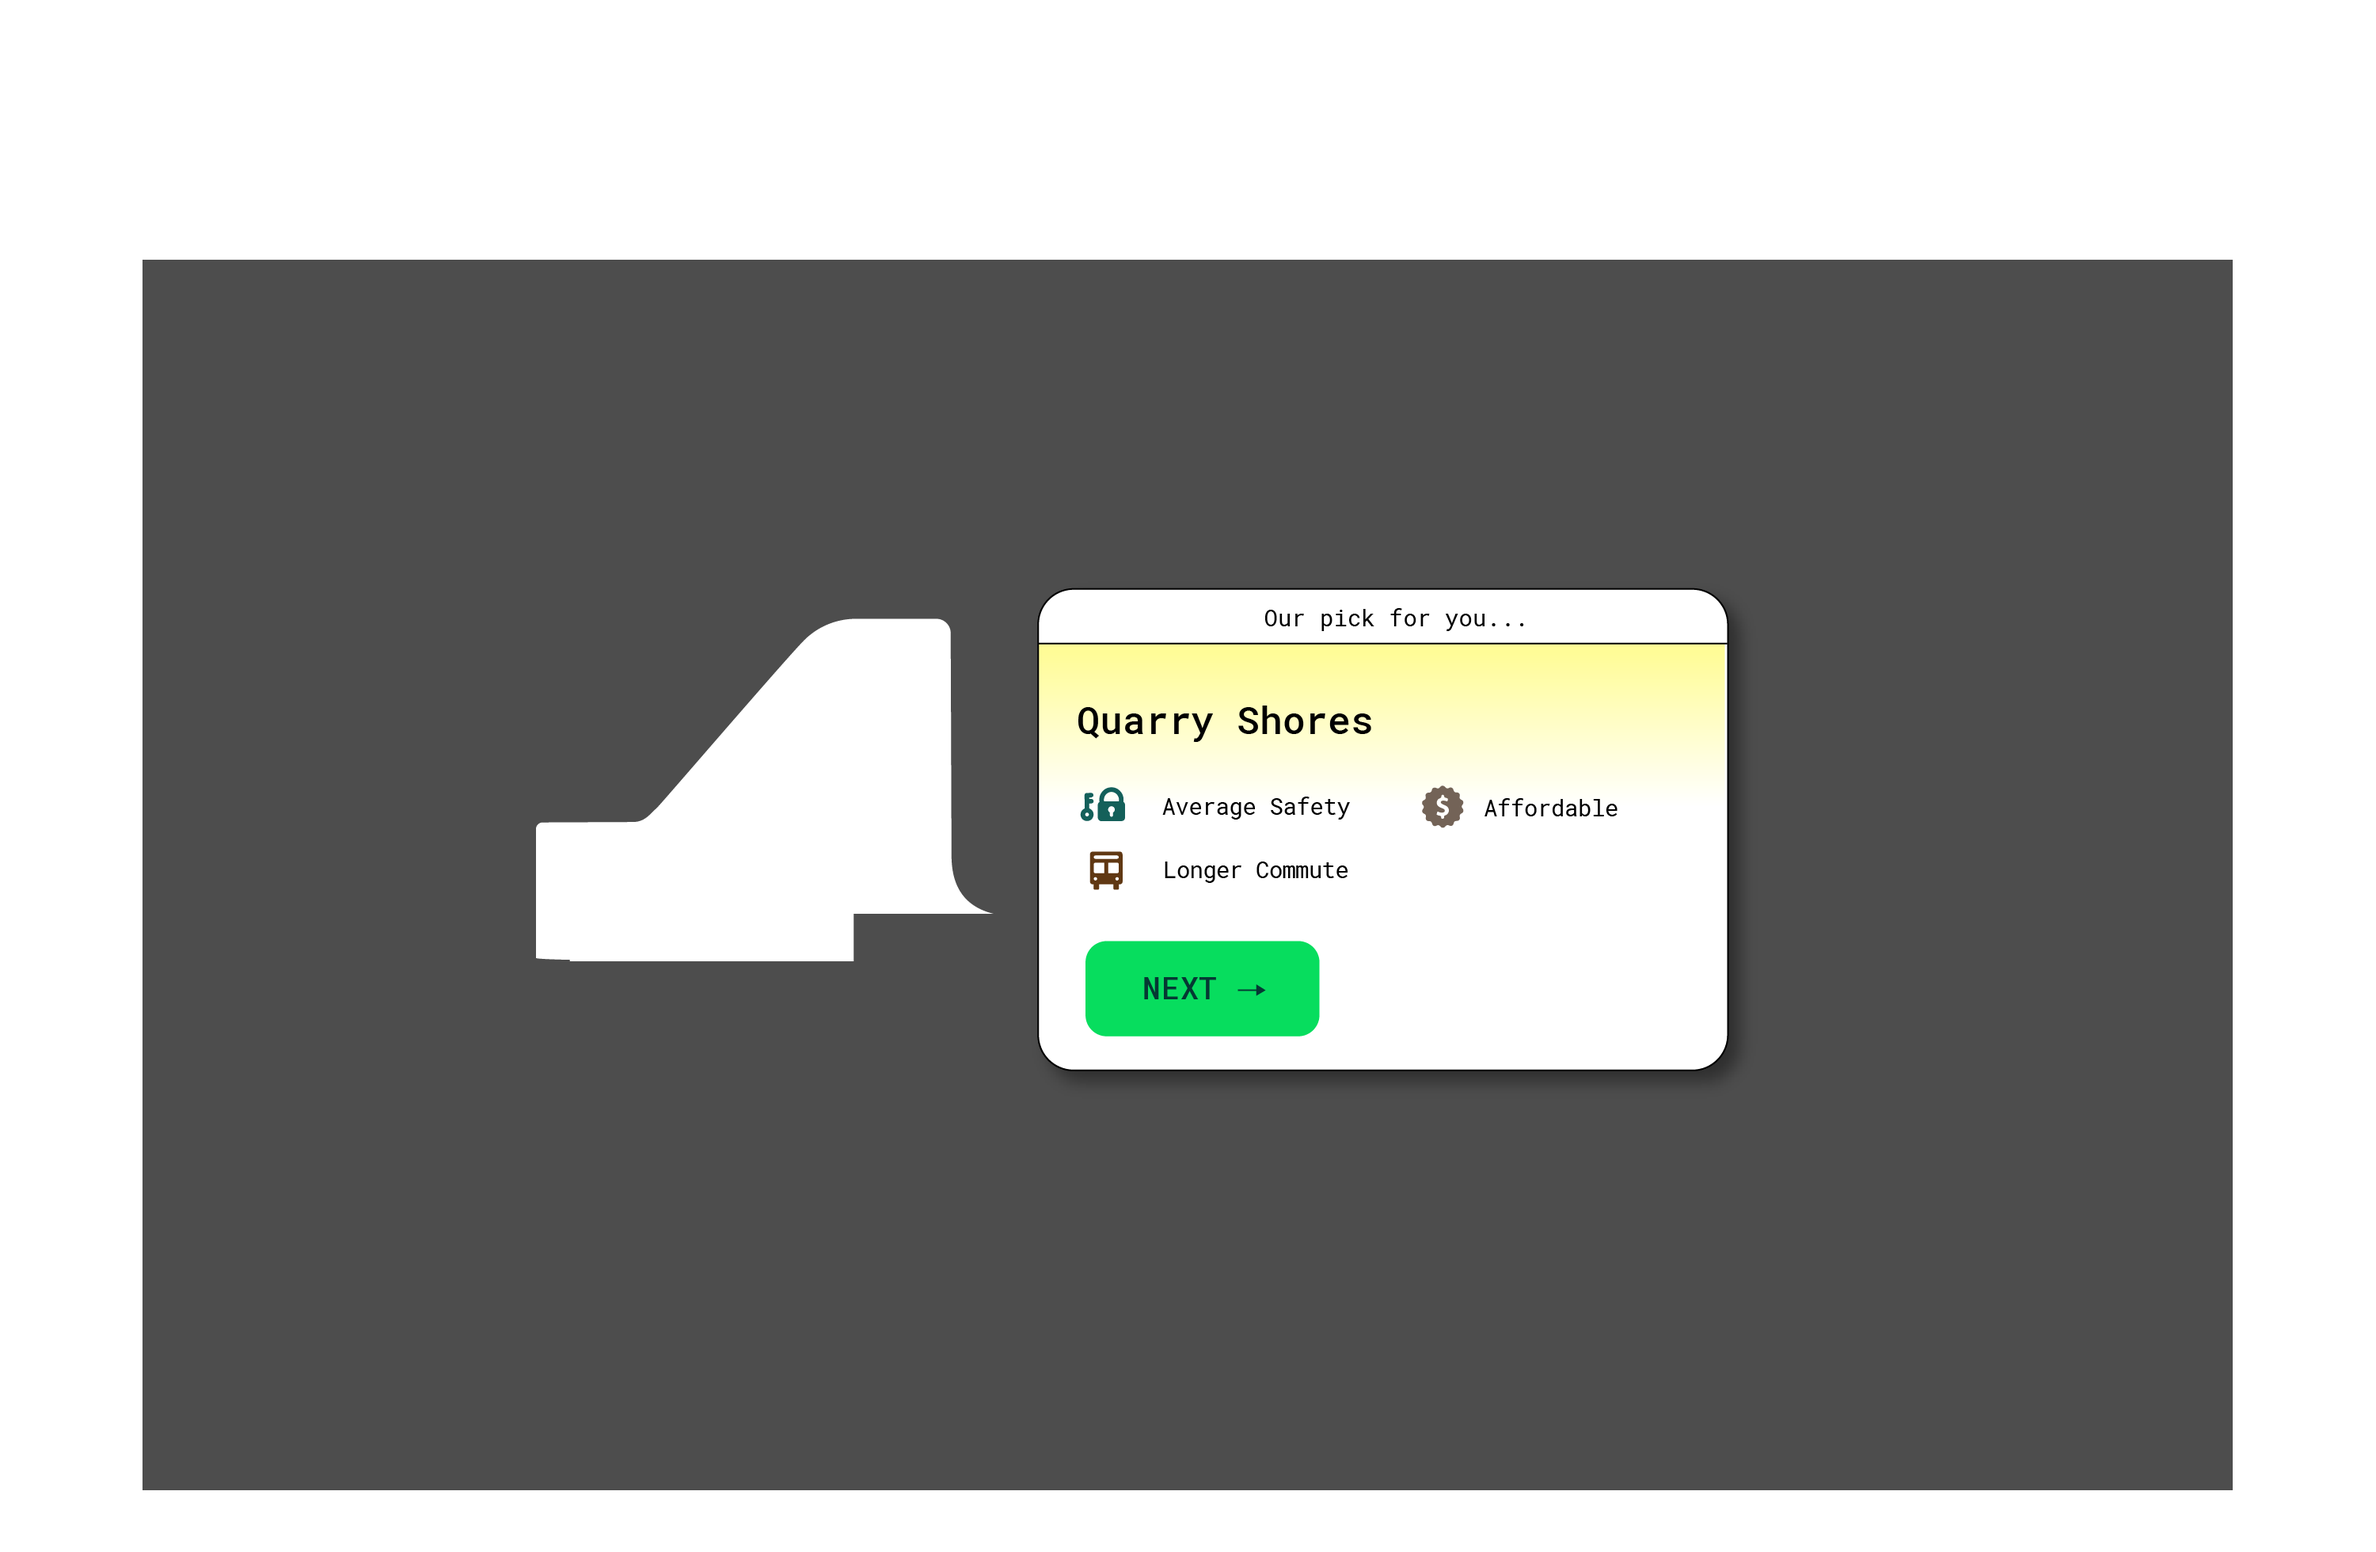
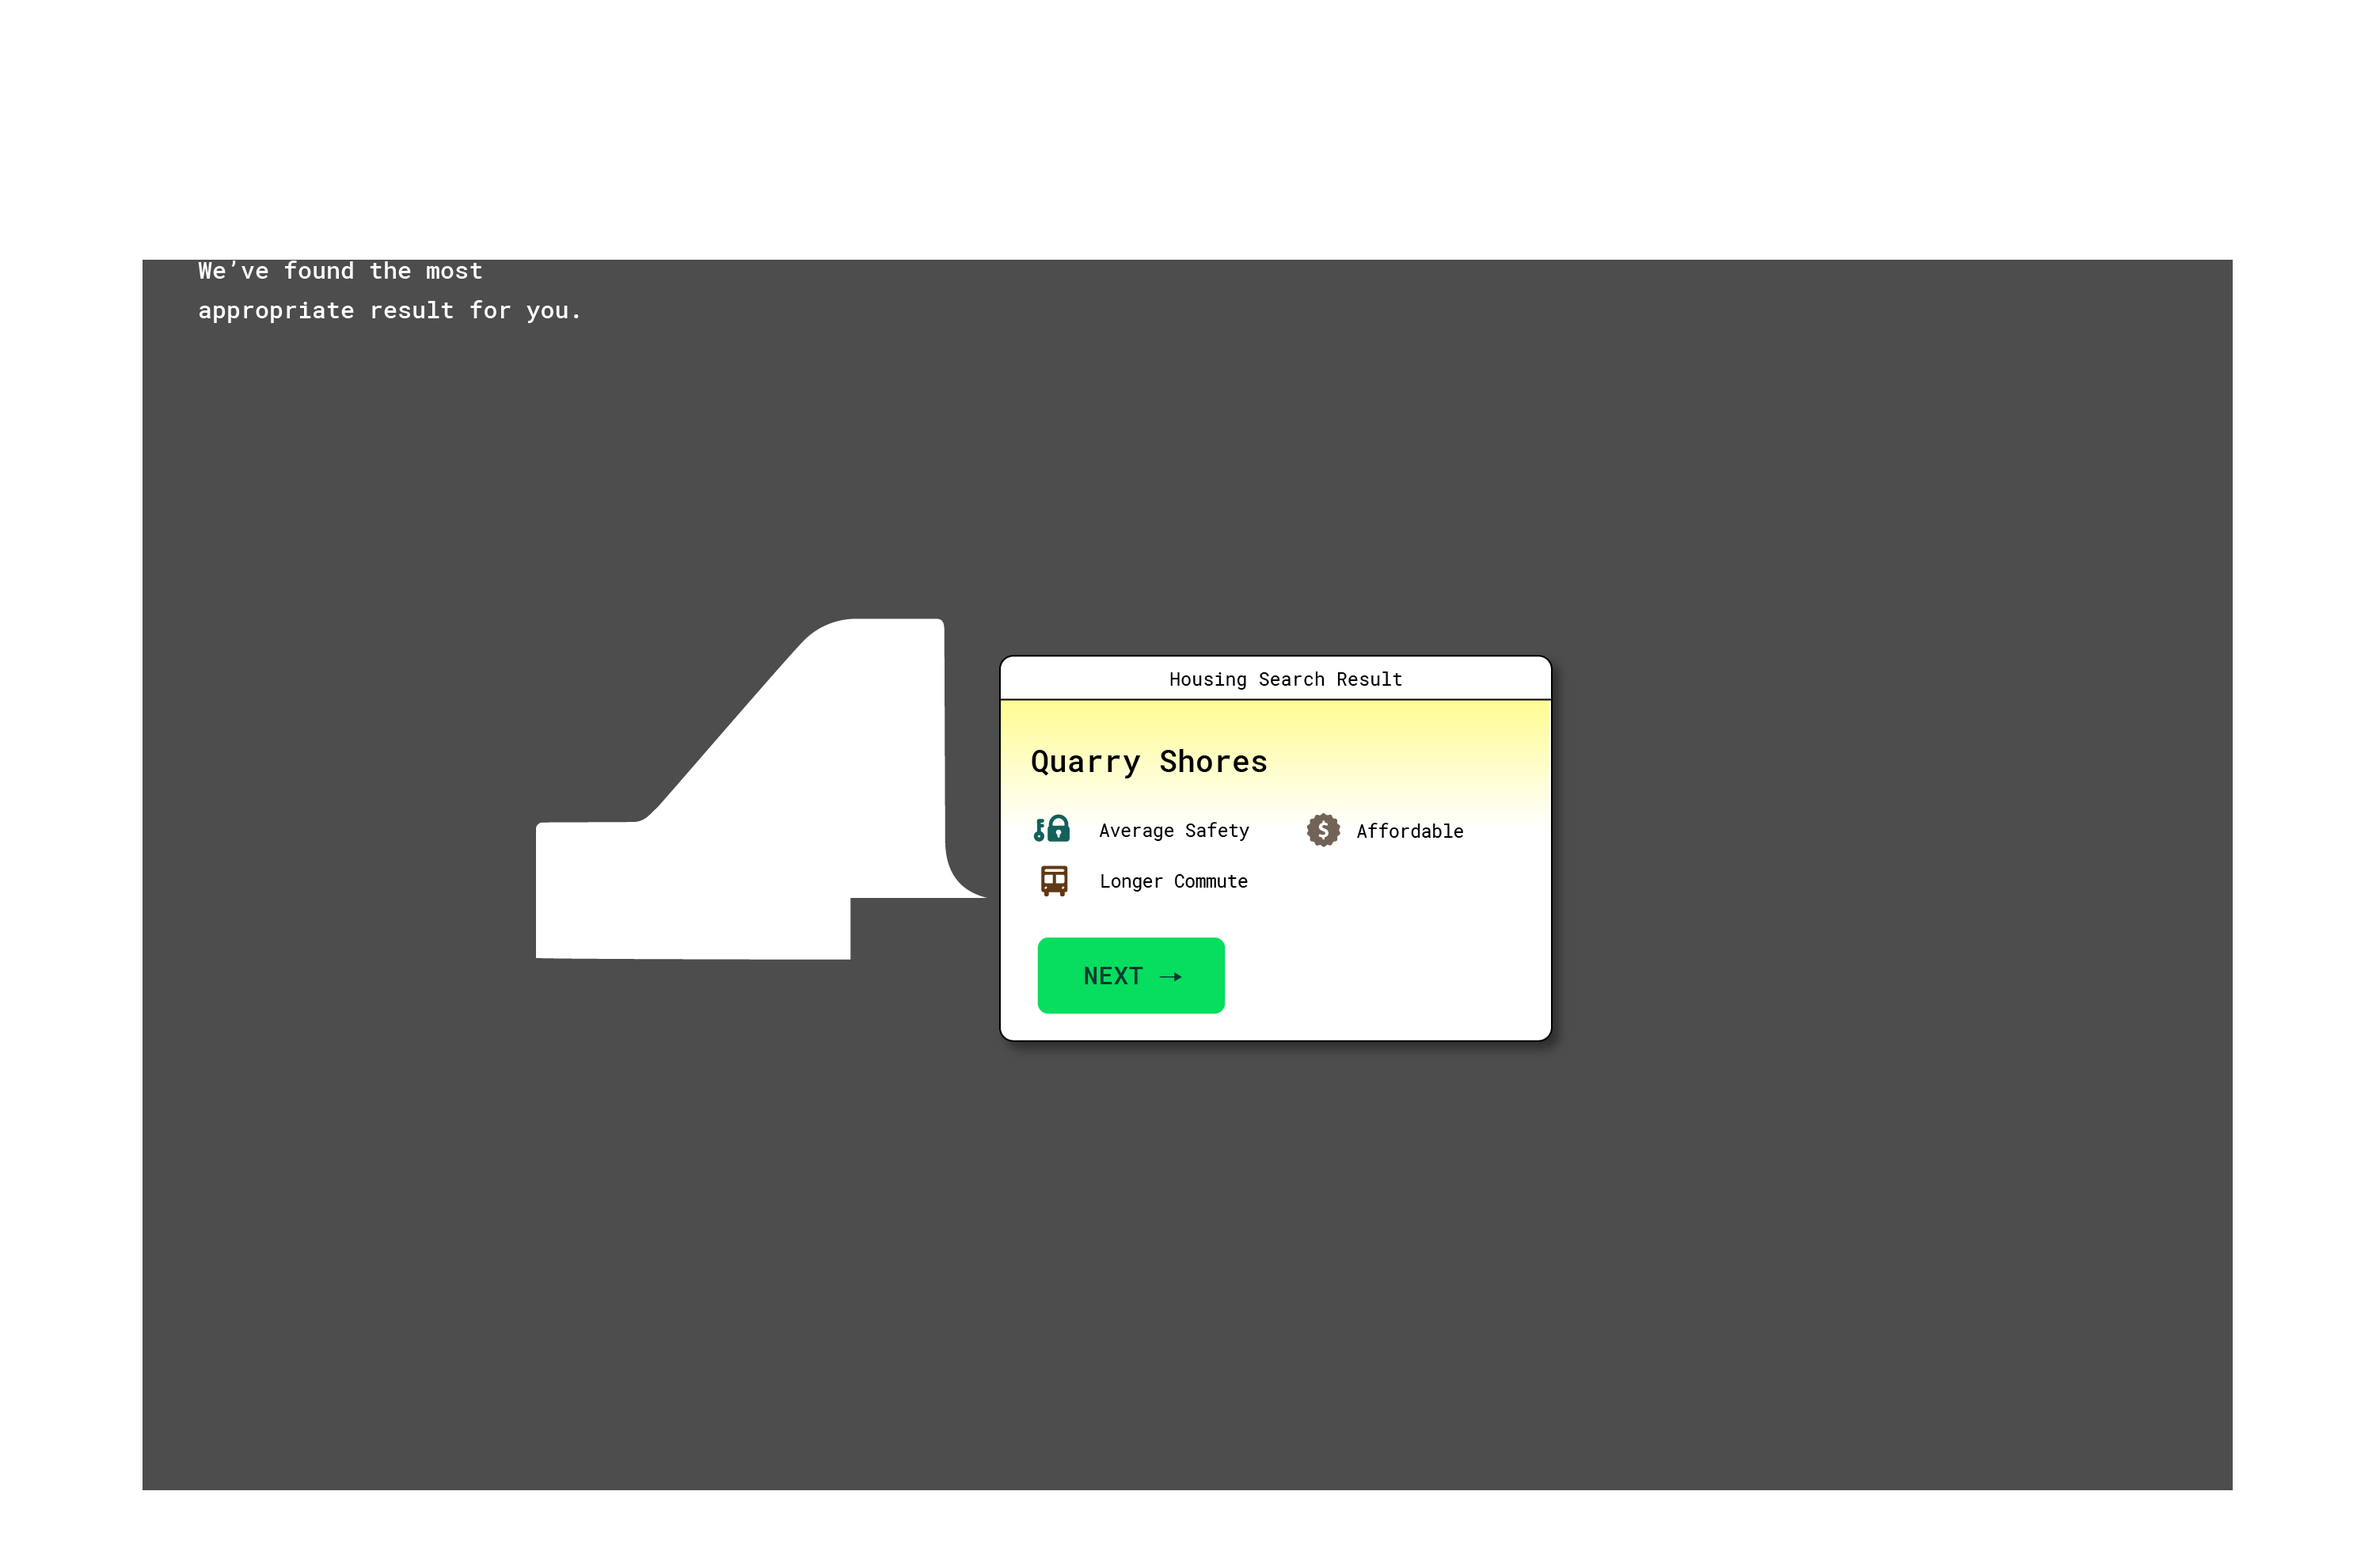
created Random Game, made image edits from Playtesting.

Changed region(s): [[0.3409, 0.3735, 0.7438, 0.7158], [0.093, 0.1556, 0.1859, 0.2179]]

diff --git a/public/sketch.js b/public/sketch.js
@@ -19,6 +19,8 @@ let randomSound;
 let buttonW = 200;
 let buttonH = 50;
 
+let firstPlay = true;
+
 let selections = {};
 let incomeValues = [
   "lower",
@@ -55,8 +57,8 @@ let educationValues = [
 ];
 let educationLabels = [
   "below high school",
-  "high school or equivalent",
-  "some college / Associates's Degree",
+  "high school",
+  "some college",
   "Bachelor's Degree",
   "Advanced Degree",
 ];
@@ -66,8 +68,10 @@ let sceneLookup = {
   Profile: Profile,
   Searching: Searching,
   Game: Game,
+  Explore: Explore,
   Prompt: Prompt,
   RandomProfile: RandomProfile,
+  RandomGame: RandomGame,
   Outro: Outro
 }
 
@@ -81,11 +85,13 @@ function preload(){
   welcome = loadImage('assets/images/welcome.png');
   button_search = loadImage('assets/images/button_search.png')
   lever = loadImage('assets/images/lever.png')
+  explore = loadImage('assets/images/whathappened.png')
 
   blackf = loadImage('assets/images/black-f.png');
   whitef = loadImage('assets/images/white-f.png');
   hispf = loadImage('assets/images/hispanic-f.png');
   asianf = loadImage('assets/images/asian-f.png');
+  otherf = loadImage('assets/images/other-f.png');
 
   blackm = loadImage('assets/images/black-m.png');
   whitem = loadImage('assets/images/white-m.png');
@@ -100,6 +106,7 @@ function preload(){
     // "other": ???
     "asian": asianf,
     "white": whitef,
+    "other": otherf,
   }
 
   masks = [
@@ -110,6 +117,16 @@ function preload(){
     loadImage('assets/images/mask5.png'),
     loadImage('assets/images/mask6.png'),
   ]
+
+  randommasks = [
+    loadImage('assets/images/randommask1.png'),
+    loadImage('assets/images/randommask2.png'),
+    loadImage('assets/images/randommask3.png'),
+    loadImage('assets/images/randommask4.png'),
+    loadImage('assets/images/randommask5.png'),
+    loadImage('assets/images/randommask6.png'),
+  ]
+
 
   soundFormats('mp3', 'ogg');
   buttonSound = loadSound('assets/sounds/game-sound-correct-131660.mp3');
@@ -149,8 +166,10 @@ function setup() {
   mgr.addScene(Profile);
   mgr.addScene(Searching);
   mgr.addScene(Game);
+  mgr.addScene(Explore);
   mgr.addScene(Prompt);
   mgr.addScene(RandomProfile);
+  mgr.addScene(RandomGame);
   mgr.addScene(Outro);
 
   mgr.showScene(Intro);
@@ -313,7 +332,7 @@ function changeYou(){
     you = hispf;
   }
   if(selections.race == 2){
-    you = hispf;
+    you = otherf;
   }
   if(selections.race == 3){
     you = asianf;
@@ -322,23 +341,3 @@ function changeYou(){
     you = whitef;
   }
 }
-//KATHY TRYING TO MAKE THINGS WORK WITH THE IMAGE ....
-// function getRace(){
-//     if(selections.race == undefined){
-//       you = blackf;
-//     }
-//     if (selections.race == "black"){
-//       you = blackf;
-//     }
-//     if (selections.race == "hispanic"){
-//       you = hispf;
-//     }
-//     if (selections.race == "asian"){
-//       you = asianf;
-//     }
-//     if (selections.race == "white"){
-//       you = whitef;
-//     }
-//
-//     console.log(selections.race);
-//   }

diff --git a/public/assets/js/Prompt.js b/public/assets/js/Prompt.js
@@ -4,33 +4,6 @@ class Prompt {
 
     background(lever, 0,0,width,height);
     fill(255);
-    push();
-      imageMode(CENTER);
-      image(you, width-240, 200, 150,150);
-      textSize(20);
-      fill(255);
-      text('YOU',width-240, 320);
-    pop();
-    // yHeight = height / 2 - 200;
-    // textSize(24);
-    // text(
-    //   'Based on your demographic data...',
-    //   width/2,
-    //   yHeight,
-    // );
-
-    // yHeight = height / 2 - 250;
-    // textSize(18);
-    // text("income is " + incomeValues[selections.income], width/2, yHeight);
-    // text("race is " + raceValues[selections.race], width/2, yHeight + 30);
-    // text("education is " + educationValues[selections.education], width/2, yHeight + 60);
-    //
-    // yHeight = height / 2;
-    // textSize(16);
-    // text("We have included (and excluded you) from search results in different neighborhoods.", width/2, yHeight - 20)
-    // text("What do you think? Does this neighborhood match the ideal place you would like to live?", width/2, yHeight + 10)
-    //
-    // displayInstruction("PULL THE LEVER TO TRY AS SOMEONE DIFFERENT");
   }
 
   keyPressed() {

diff --git a/public/assets/js/Outro.js b/public/assets/js/Outro.js
@@ -1,22 +1,22 @@
 class Outro {
   draw() {
-    background(0);
+    background(browser,0,0,width,height);
     button(width/2,height-100,"START OVER");
 
     fill(255);
 
-    textSize(25);
-    text("WHAT JUST HAPPENED?",width/2,200);
+    textSize(30);
+    text("AS SEGREGATED AS A CITY?",width/2,200);
 
-    textSize(25);
-    textLeading(40);
+    textSize(20);
+    textLeading(35);
     text(
       squish(`
-        What happens when you and a complete stranger both search for the same keyword?
+        What happens when you and a stranger both search for the same keyword?
         Most likely, you’ll get different results.
 
-        As our everyday internet services learn more about us, our travel paths online
-        become surprisingly segregated. These divergent paths can be as harmless
+        As our everyday internet services learn about us, our travel paths
+        online become increasingly segregated. These divergent paths can be as harmless
         as music tastes, or as consequential as where we live.
       `),
       width/2,

diff --git a/public/assets/js/Searching.js b/public/assets/js/Searching.js
@@ -13,15 +13,28 @@ class Searching {
 
     // NB. Hacky classifier, let's just deal with predY
     neighborhood = map(predY, 0, height+1, 7, 1)
+    // mask = masks[floor(neighborhood - 1)]
+
+    if (firstPlay == true){
     mask = masks[floor(neighborhood - 1)]
+    }
+    else if (firstPlay==false){
+    mask = randommasks[floor(neighborhood - 1)]
+    }
+
     console.log(mask)
   }
 
   draw() {
     let currentMillis = millis();
     if (neighborhood && currentMillis > this.loadingEndAt) {
-      mgr.showNextScene();
+      if (firstPlay == true){
+          mgr.showScene(Game);
     }
+    else if (firstPlay == false){
+         mgr.showScene(RandomGame)
+    }
+  }
 
     push()
 

diff --git a/public/index.html b/public/index.html
@@ -17,8 +17,10 @@
     <script type="text/javascript" src="assets/js/Profile.js"></script>
     <script type="text/javascript" src="assets/js/Searching.js"></script>
     <script type="text/javascript" src="assets/js/Game.js"></script>
+    <script type="text/javascript" src="assets/js/Explore.js"></script>
     <script type="text/javascript" src="assets/js/Prompt.js"></script>
     <script type="text/javascript" src="assets/js/RandomProfile.js"></script>
+    <script type="text/javascript" src="assets/js/RandomGame.js"></script>
     <script type="text/javascript" src="assets/js/Outro.js"></script>
 
     <link href="https://fonts.googleapis.com/css?family=Roboto+Mono" rel="stylesheet">

diff --git a/public/assets/js/RandomGame.js b/public/assets/js/RandomGame.js
@@ -1,4 +1,4 @@
-class Game {
+class RandomGame {
   draw() {
     background(browser, 1);
     image(mapImage, 0,0,width,height);
@@ -8,17 +8,17 @@ class Game {
       image(mask, width/2, height/2, width, height);
       image(you, 255, 385, 180,180);
     pop();
-
-    firstPlay = false;
   }
 
   keyPressed() {
     switch(key) {
       case 'O':
         buttonSound.play();
-        this.sceneManager.showScene(Explore);
+        this.sceneManager.showScene(Outro);
         break;
-      }
-
-    }   
+      case 'P':
+        this.sceneManager.showScene(RandomProfile);
+        break;
+    }
+  }
 }

diff --git a/public/assets/js/Profile.js b/public/assets/js/Profile.js
@@ -13,13 +13,13 @@ class Profile {
     push();
     fill(255);
 
-    textSize(30);
-    text(
-      squish(`YOUR PROFILE`),
-      width/2,
-      height/4 - 100
-
-    );
+    // textSize(30);
+    // text(
+    //   squish(`YOUR PROFILE`),
+    //   width/2,
+    //   height/4 - 100
+    //
+    // );
 
     textSize(20);
     textLeading(35);

diff --git a/public/assets/js/Explore.js b/public/assets/js/Explore.js
@@ -1,0 +1,16 @@
+class Explore {
+  draw() {
+      background(explore, 0,0,width,height);
+    }
+
+
+
+  keyPressed() {
+    switch(key) {
+      case 'O':
+        buttonSound.play();
+        this.sceneManager.showScene(Prompt);
+        break;
+    }
+  }
+}

diff --git a/public/assets/js/Intro.js b/public/assets/js/Intro.js
@@ -1,5 +1,6 @@
 class Intro {
   draw() {
+    firstPlay = true;
     rectMode(CENTER)
     background(browser,1);
     image(mapImage,0,0,width, height);

diff --git a/public/assets/css/style.css b/public/assets/css/style.css
@@ -37,7 +37,7 @@ html, body {
 }
 
 #race-label {
-  background: #69d6aa;
+  background: #07d8d8;
   color:black;
   padding:10px;
   border-radius: 5px;
